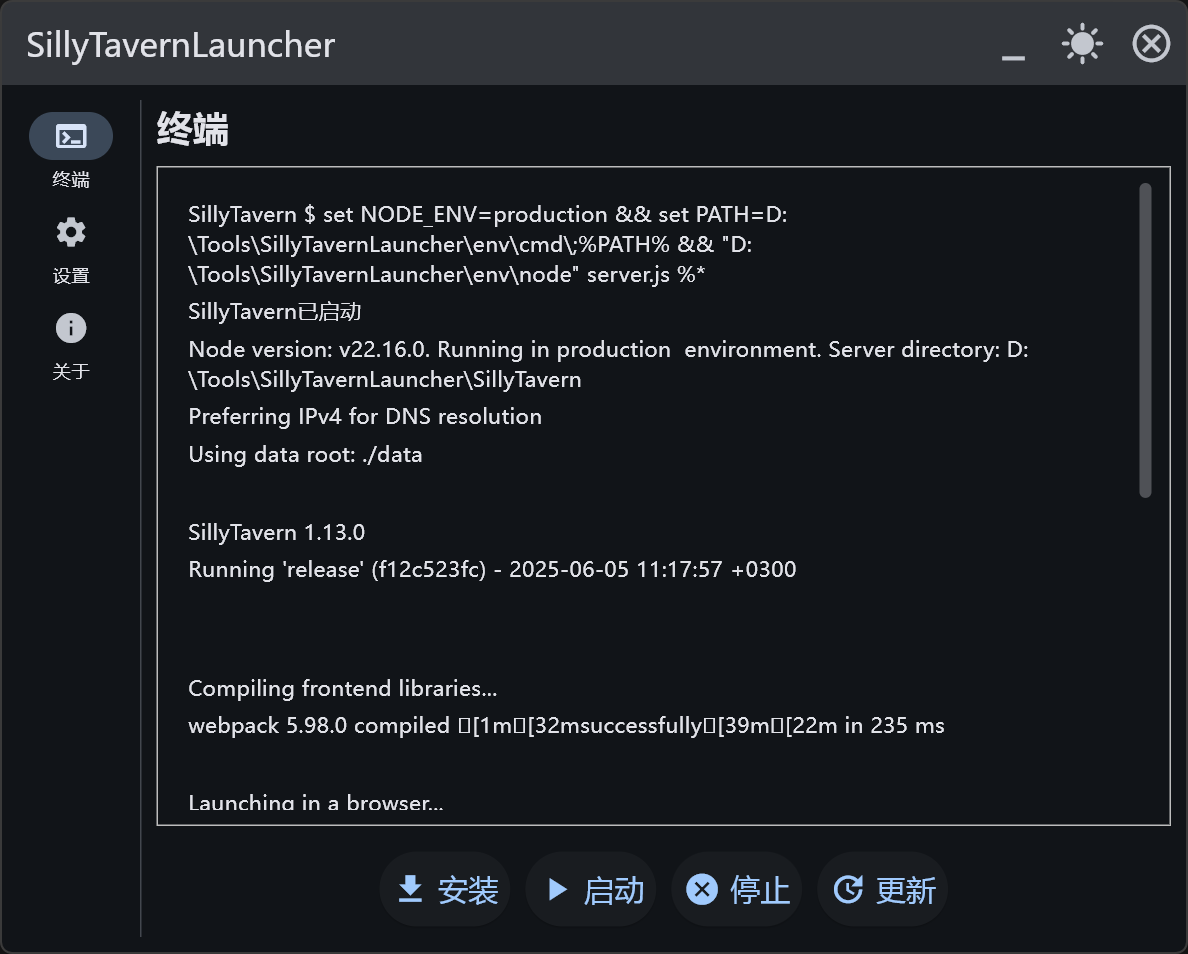
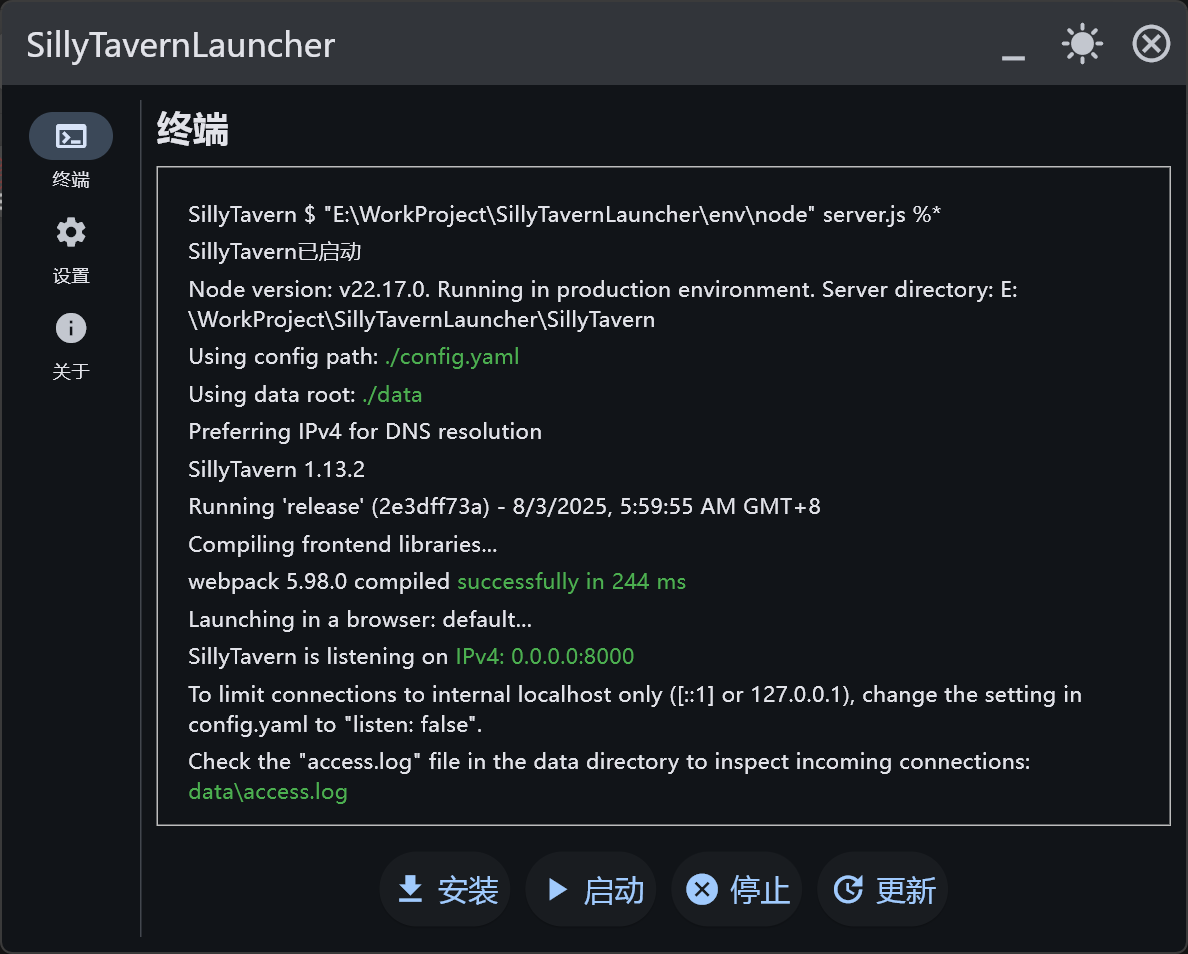
修改配置系统

diff --git a/src/ui.py b/src/ui.py
@@ -220,12 +220,9 @@ class Terminal:
                 # 获取当前时间戳
                 timestamp = datetime.datetime.now().strftime("%Y-%m-%d %H:%M:%S")
                 
-                # 移除ANSI颜色代码
-                clean_text = re.sub(r'\x1b\[[0-9;]*m', '', text)
-                
                 # 写入日志文件，追加模式
                 with open(log_file_path, "a", encoding="utf-8") as log_file:
-                    log_file.write(f"[{timestamp}] {clean_text}\n")
+                    log_file.write(f"[{timestamp}] {text}\n")
             except Exception as e:
                 # 如果写入日志文件失败，不中断主流程，只在控制台输出错误
                 print(f"写入日志文件失败: {str(e)}")

diff --git a/src/config.py b/src/config.py
@@ -14,8 +14,6 @@ class ConfigManager:
             self.config_path = os.path.join(os.getcwd(), "config.json")
         else:
             self.config_path = config_path
-            
-        self.config = self.load_config()
         self.default_config = {
                 "patchgit": False,
                 "use_sys_env": self._detect_env_type(),
@@ -25,7 +23,10 @@ class ConfigManager:
                 "log": True,
                 "checkupdate": True,
                 "stcheckupdate": False,
-            }
+            }   
+        self.config = self.load_config()
+        
+        
     def load_config(self):
         """
         加载配置文件
